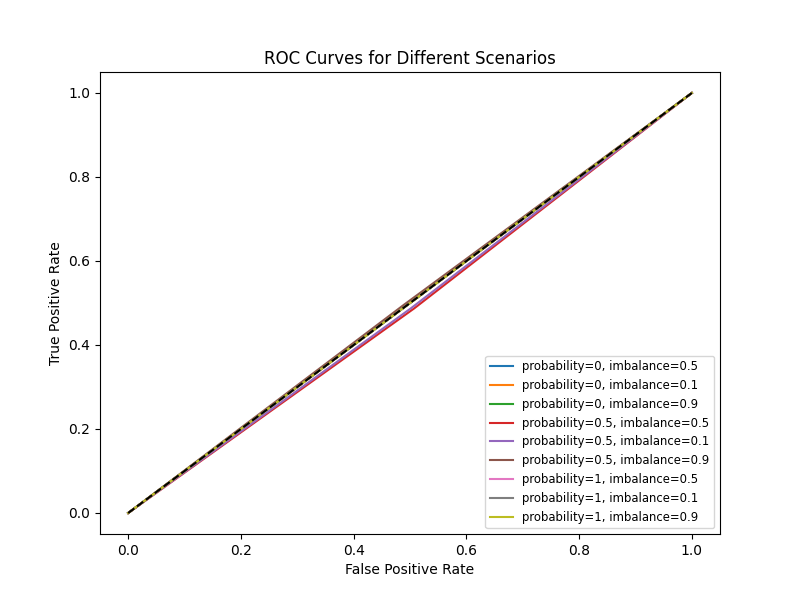
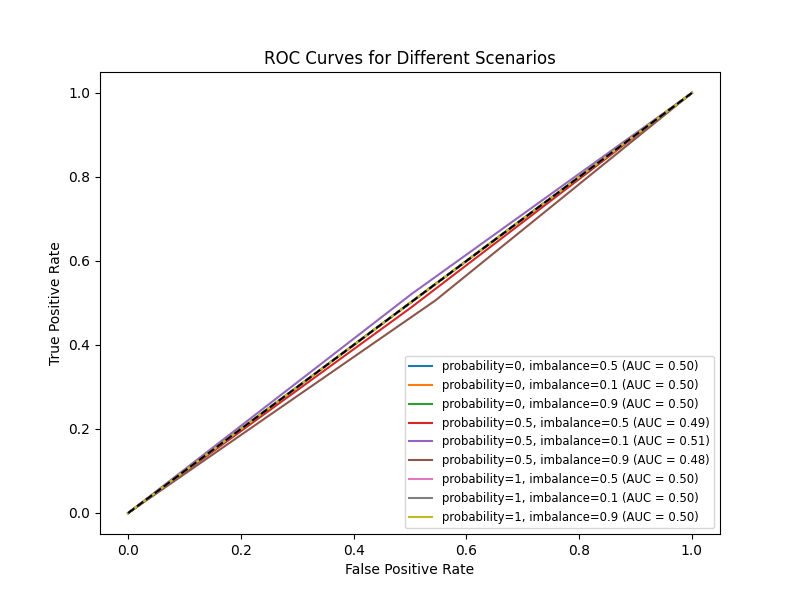
v5

diff --git a/metrics_experiments.py b/metrics_experiments.py
@@ -7,8 +7,8 @@ from sklearn.metrics import (
     roc_auc_score,
     confusion_matrix,
     classification_report,
-    roc_curve,
-    precision_recall_curve,
+    RocCurveDisplay,
+    PrecisionRecallDisplay,
 )
 import matplotlib.pyplot as plt
 import os
@@ -71,6 +71,7 @@ for p in ps:
                 "TP": tp,
             }
         )
+
         # Classification Report
         report = classification_report(
             y_true, y_scores, zero_division=0, output_dict=True
@@ -95,12 +96,12 @@ for p in ps:
                 )
 
         # ROC Curve
-        fpr, tpr, _ = roc_curve(y_true, y_scores)
-        roc_curves.append((fpr, tpr, key))
+        roc_display = RocCurveDisplay.from_predictions(y_true, y_scores, name=key)
+        roc_curves.append(roc_display)
 
         # Precision-Recall Curve
-        precision, recall, _ = precision_recall_curve(y_true, y_scores)
-        pr_curves.append((precision, recall, key))
+        pr_display = PrecisionRecallDisplay.from_predictions(y_true, y_scores, name=key)
+        pr_curves.append(pr_display)
 
 # Plotting the confusion matrices
 fig, axes = plt.subplots(nrows=3, ncols=3, figsize=(15, 15))
@@ -132,31 +133,30 @@ for i, p in enumerate(ps):
                 fontsize="xx-large",
             )
 
-# Adjust layout manually
 plt.subplots_adjust(left=0.1, right=0.9, top=0.9, bottom=0.1, wspace=0.4, hspace=0.4)
 plt.savefig("charts/confusion_matrices.png")
 plt.close()
 
 # Overlay ROC Curves
-plt.figure(figsize=(8, 6))
-for fpr, tpr, label in roc_curves:
-    plt.plot(fpr, tpr, label=label)
-plt.plot([0, 1], [0, 1], "k--")
-plt.xlabel("False Positive Rate")
-plt.ylabel("True Positive Rate")
-plt.title("ROC Curves for Different Scenarios")
-plt.legend(loc="lower right", fontsize="small")
+fig, ax = plt.subplots(figsize=(8, 6))
+for roc_display in roc_curves:
+    roc_display.plot(ax=ax)
+ax.plot([0, 1], [0, 1], "k--")
+ax.set_xlabel("False Positive Rate")
+ax.set_ylabel("True Positive Rate")
+ax.set_title("ROC Curves for Different Scenarios")
+ax.legend(loc="lower right", fontsize="small")
 plt.savefig("charts/roc_curves.png")
 plt.close()
 
 # Overlay Precision-Recall Curves
-plt.figure(figsize=(8, 6))
-for precision, recall, label in pr_curves:
-    plt.plot(recall, precision, label=label)
-plt.xlabel("Recall")
-plt.ylabel("Precision")
-plt.title("Precision-Recall Curves for Different Scenarios")
-plt.legend(loc="lower right", fontsize="small")
+fig, ax = plt.subplots(figsize=(8, 6))
+for pr_display in pr_curves:
+    pr_display.plot(ax=ax)
+ax.set_xlabel("Recall")
+ax.set_ylabel("Precision")
+ax.set_title("Precision-Recall Curves for Different Scenarios")
+ax.legend(loc="lower right", fontsize="small")
 plt.savefig("charts/pr_curves.png")
 plt.close()
 

diff --git a/README.md b/README.md
@@ -157,15 +157,15 @@ This section contains the results from the experiments. For accuracy, precision,
 
 ### Discussion
 
-| **Metric**           | **Behavior Across Classifier Types**                                                                                                                     | **Impact of Class Imbalance**                                                                   | **When to Use**                                                                        | **Key Considerations**                                                                                                              |
-| -------------------- | -------------------------------------------------------------------------------------------------------------------------------------------------------- | ----------------------------------------------------------------------------------------------- | -------------------------------------------------------------------------------------- | ----------------------------------------------------------------------------------------------------------------------------------- |
-| **Accuracy**         | - **Random**: Equal to 0.5.<br>- **All 1**: Equals positive class proportion<br>- **All 0**: Equals negative class proportion                            | - Highly sensitive; can be misleading in imbalanced datasets                                    | - Use in balanced datasets or when all classes are equally important                   | - Can be deceptive in imbalanced datasets; consider other metrics for a more comprehensive evaluation                               |
-| **Precision**        | - **Random**: Low, near baseline precision<br>- **All 1**: Varies; low if positive class is minority<br>- **All 0**: Undefined (no positive predictions) | - Cases where the number of actual positives is very, very low, say 1-2 examples in total, precision is less meaningful and less useful as a metric [3]. | - When the cost of false positives is high (e.g., spam detection, medical diagnosis)   | - Should be balanced with recall; precision alone may not capture overall performance                                               |
-| **Recall**           | - **Random**: Generally low<br>- **All 1**: Always 1.0<br>- **All 0**: Always 0.0                                                                        | - In an imbalanced dataset where the number of actual positives is very, very low, say 1-2 examples in total, recall is less meaningful and less useful as a metric [3].                      | - When missing positive instances is costly (e.g., disease detection, fraud detection) | - High recall alone doesn't ensure good performance; consider precision as well                                                     |
-| **F1 Score**         | - **Random**: Low<br>- **All 1**: Moderate<br>- **All 0**: Zero                                                                                          | - Sensitive; balancing precision and recall is challenging in imbalanced datasets               | - When seeking a balance between precision and recall                                  | - Provides a single metric for evaluation, but may not capture nuances in highly imbalanced datasets                                |
-| **PR Curve**         | - **Random**: Flat, near baseline<br>- **All 1**: Horizontal line from (1, precision)<br>- **All 0**: Not meaningful (recall is 0)                       | - Highly sensitive; shifts significantly with class distribution changes                        | - In imbalanced datasets, especially when focusing on the minority class               | - Provides a clear picture of performance across different thresholds; consider AUC-PR for a single summary metric                  |
-| **ROC Curve**        | - **Random**: AUROC ≈ 0.5<br>- **All 1**: Not meaningful (no true negatives)<br>- **All 0**: Not meaningful (no true positives)                          | - Less sensitive; can be overly optimistic in imbalanced datasets                               | - When comparing multiple models or when both classes are equally important            | - Can be misleading in highly imbalanced datasets; consider PR curve as an alternative                                              |
-| **Confusion Matrix** | - **Random**: Mix of TP, FP, TN, FN<br>- **All 1**: Zero TN, many FP<br>- **All 0**: Zero TP, many FN                                                    | - Highly sensitive; clearly shows skew in predictions                                           | - For detailed error analysis and understanding model behavior                         | - Provides comprehensive information but requires interpretation; consider normalizing for better visualization in imbalanced cases |
+| **Metric**           | **Behavior Across Classifier Types**                                                                                          | **Impact of Class Imbalance**                                                                                                                                            | **When to Use**                                                                        | **Key Considerations**                                                                                                              |
+| -------------------- | ----------------------------------------------------------------------------------------------------------------------------- | ------------------------------------------------------------------------------------------------------------------------------------------------------------------------ | -------------------------------------------------------------------------------------- | ----------------------------------------------------------------------------------------------------------------------------------- |
+| **Accuracy**         | - **Random**: Equal to 0.5.<br>- **All 1**: Equals positive class proportion<br>- **All 0**: Equals negative class proportion | - Highly sensitive; can be misleading in imbalanced datasets                                                                                                             | - Use in balanced datasets or when all classes are equally important                   | - Can be deceptive in imbalanced datasets; consider other metrics for a more comprehensive evaluation                               |
+| **Precision**        | - **Random**: Macro average is equal to 0.5. <br>- **All 1**: Class 0 precision is 0. <br>- **All 0**: Class 1 precision 0.   | - Cases where the number of actual positives is very, very low, say 1-2 examples in total, precision is less meaningful and less useful as a metric [3].                 | - When the cost of false positives is high (e.g., spam detection, medical diagnosis)   | - Should be balanced with recall; precision alone may not capture overall performance                                               |
+| **Recall**           | - **Random**: Equal to 0.5<br>- **All 1**: Macro average 0.5 always.<br>- **All 0**: Macro average always 0.5                 | - In an imbalanced dataset where the number of actual positives is very, very low, say 1-2 examples in total, recall is less meaningful and less useful as a metric [3]. | - When missing positive instances is costly (e.g., disease detection, fraud detection) | - High recall alone doesn't ensure good performance; consider precision as well                                                     |
+| **F1 Score**         | - **Random**: Near 0.5.<br>- **All 1**: Class 1 precision always 0.<br>- **All 0**: Class 1 precision always 0.               | - Sensitive; balancing precision and recall is challenging in imbalanced datasets                                                                                        | - When seeking a balance between precision and recall                                  | - Provides a single metric for evaluation, but may not capture nuances in highly imbalanced datasets                                |
+| **PR Curve**         | - Horizontal line at imbalance ratio for all three classifiers.                                                               | - Highly sensitive; shifts significantly with class distribution changes                                                                                                 | - In imbalanced datasets, especially when focusing on the minority class               | - Provides a clear picture of performance across different thresholds; consider AUC-PR for a single summary metric                  |
+| **ROC Curve**        | - approximately y=x line and auroc  0.5                                                                                       | - Less sensitive; can be overly optimistic in imbalanced datasets                                                                                                        | - When comparing multiple models or when both classes are equally important            | - Can be misleading in highly imbalanced datasets; consider PR curve as an alternative                                              |
+| **Confusion Matrix** | - **Random**: Mix of TP, FP, TN, FN<br>- **All 1**: Zero TN and FN<br>- **All 0**: Zero TP and FP                             | - Highly sensitive; clearly shows skew in predictions                                                                                                                    | - For detailed error analysis and understanding model behavior                         | - Provides comprehensive information but requires interpretation; consider normalizing for better visualization in imbalanced cases |
 
 ### Conclusion
 Evaluating classifier performance in the context of imbalanced datasets is crucial for understanding model effectiveness. Various metrics, including accuracy, precision, recall, F1 score, AUROC, and PR curves, each provide unique insights but have limitations, particularly when class distributions are skewed.
